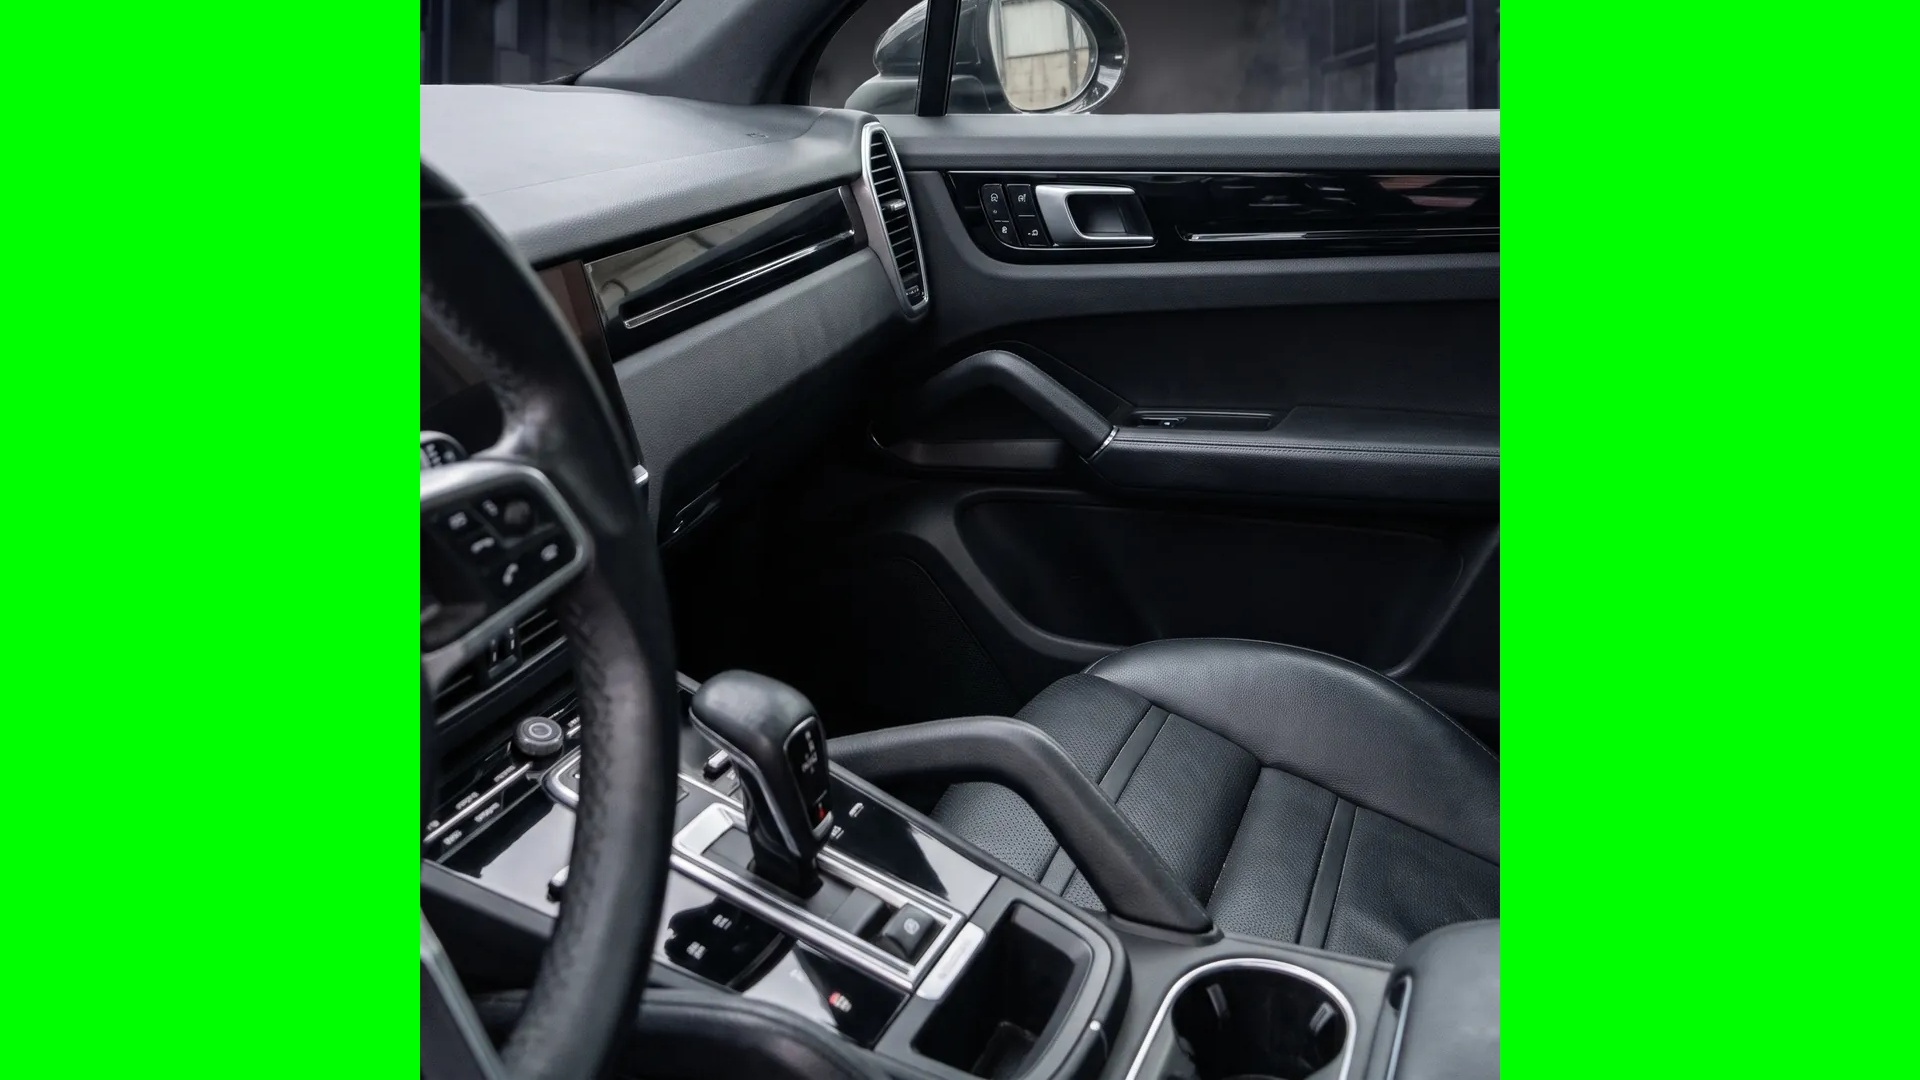
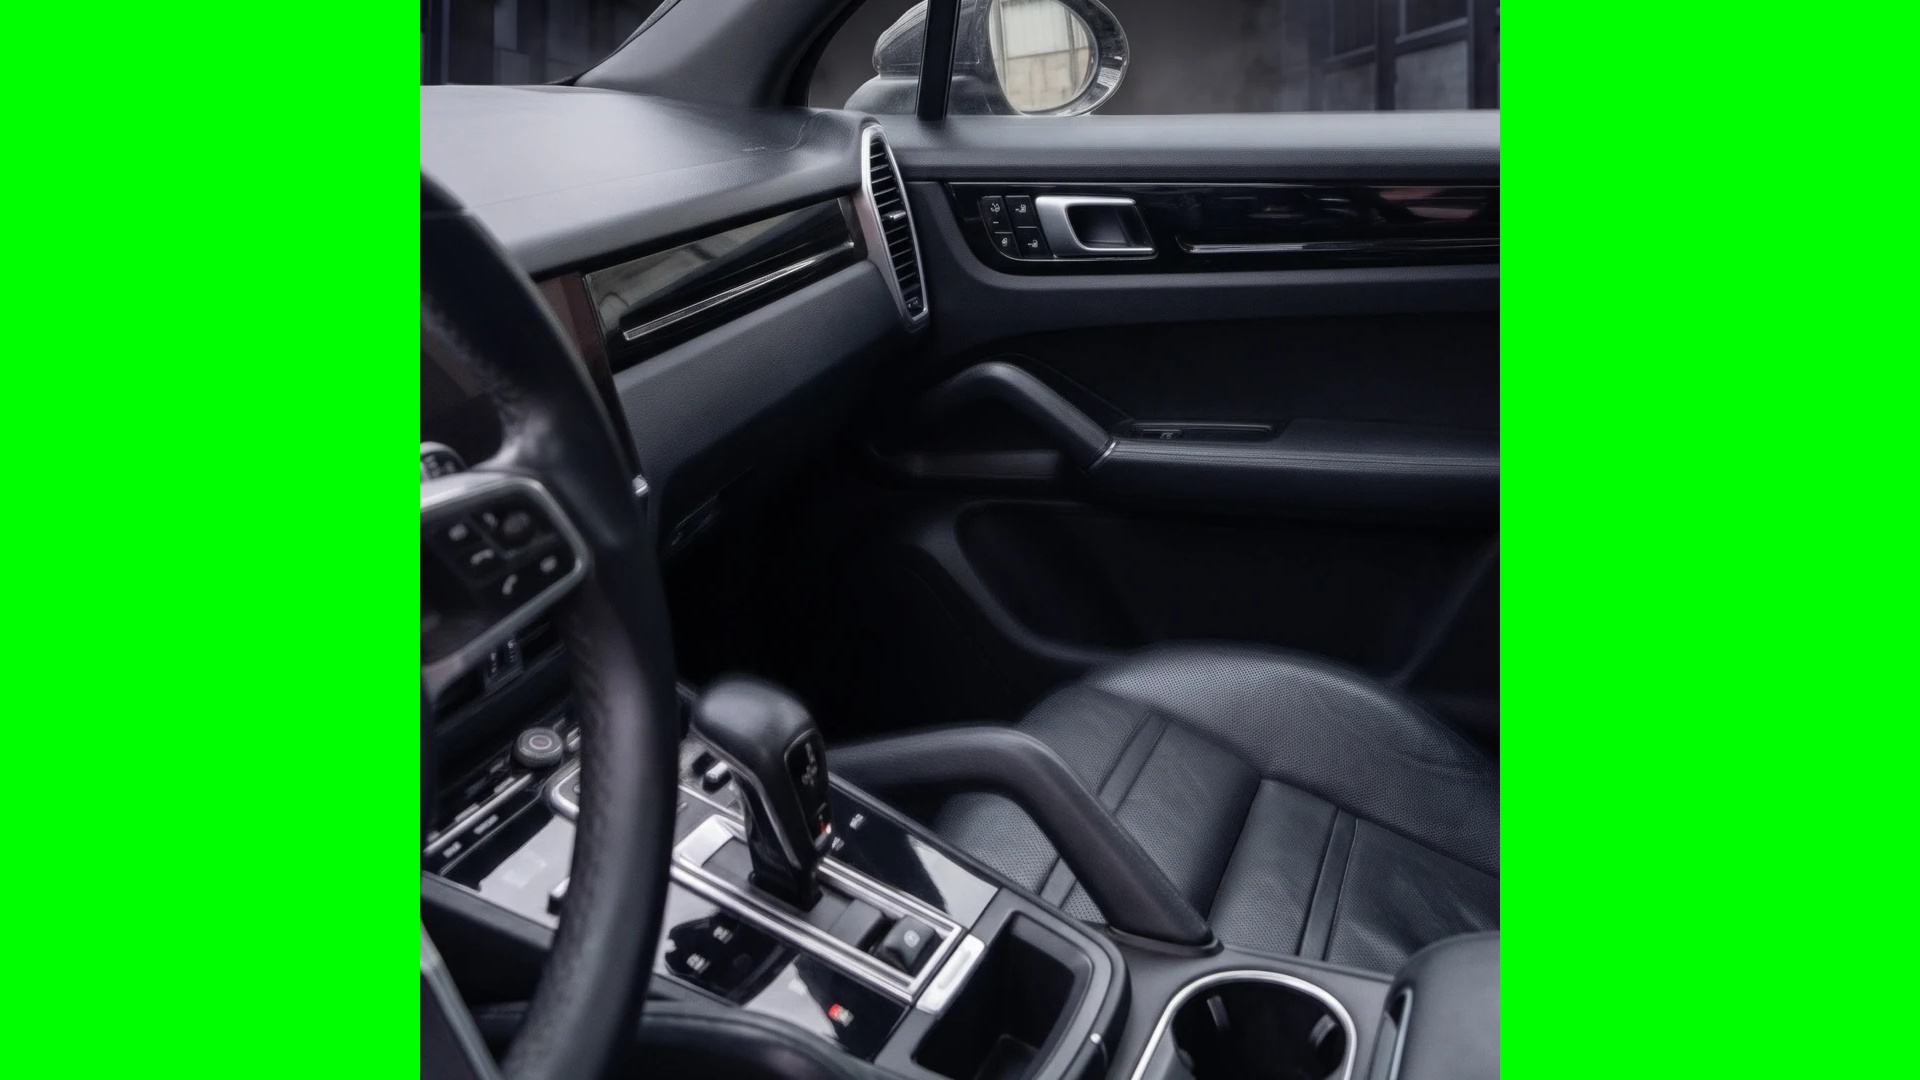
Fotos de la fase 2 (fondos provisionales en los encuadres nuevos)

diff --git a/index.html b/index.html
@@ -977,6 +977,13 @@ h1 { font-weight: 800; font-size: 22px; line-height: 1.1; letter-spacing: .01em;
 .book-nav .btn { width: 44px; height: 44px; min-height: 0; padding: 0; border-radius: 50%; font-size: 22px; }
 .book-nav .btn:disabled { opacity: .3; cursor: default; }
 @media (prefers-reduced-motion: reduce) { .book, .book:not(.open) { transform: none; transition: none; } }
+
+/* Recorrido de la limpieza (exterior → asientos → puertas → suelo → techo): pasos tocables */
+#phone .subs.tour { flex-wrap: nowrap; overflow-x: auto; scrollbar-width: none; gap: 4px; }
+#phone .subs.tour::-webkit-scrollbar { display: none; }
+#phone .subs.tour button { flex: none; height: 30px; padding: 0 11px; font-size: 9.5px; letter-spacing: .1em; }
+#phone .subs.tour button.done span::before { content: "✓ "; color: #ff4d5e; }
+#phone .subs.tour button[aria-pressed="true"].done span::before { color: #fff; }
 /* En un móvil la web ocupa SIEMPRE todo el ancho. Antes el ancho se limitaba a la mitad del alto, y con la barra
    del navegador (o en móviles más anchos) quedaban franjas negras a los lados. */
 @media (max-width: 600px), (pointer: coarse) and (orientation: portrait) { .phone { width: 100%; } }
@@ -1579,7 +1586,7 @@ if (innerWidth < 700 && innerHeight > innerWidth) location.replace('https://topd
 <script>
 (() => {
   // IMGV: súbelo cada vez que cambien fotos con el mismo nombre, para que el navegador no enseñe las viejas de su caché
-  const IMGV = 2;
+  const IMGV = 3;
   const img = n => `img/${n}.webp?v=${IMGV}`;
   const W = 'https://wa.me/34643182964?text=';
   const SUCIO = '01-intro_porsche_sucio', LIMPIO = '00-base_porsche_limpio';
@@ -1616,6 +1623,9 @@ if (innerWidth < 700 && innerHeight > innerWidth) location.replace('https://topd
     ]},
     extras: { label: 'Extras', groups: ['Interior', 'Exterior', 'Si hace falta'], serv: true, clip: 'extras', opts: [] },
   };
+  // Premium e integral: después del exterior, la animación sigue por el interior (cada paso, su antes y su después)
+  const INT = n => ({ n: n[0].toUpperCase() + n.slice(1), a: `06-limpieza_int_${n}_antes`, b: `06-limpieza_int_${n}_despues`, frame: 'int-' + n });
+  CATS.limpieza.opts.forEach((x, k) => { if (k) x.tour = [{ n: 'Exterior', a: x.a, b: x.b, frame: x.frame }, ...(k === 1 ? ['asientos', 'puertas'] : ['asientos', 'puertas', 'suelo', 'techo']).map(INT)]; });
   CATS.limpieza.page = 'detallado'; CATS.pulido.page = 'pulido'; CATS.ceramico.page = 'ceramico'; CATS.extras.page = 'precios'; CATS.tintado.page = 'precios';
   const ZONA = { interior: 'Interior', cristales: 'Cristales', motor: 'Motor', ruedas: 'Ruedas', carroceria: 'Carrocería' };
   // fam: opciones que van juntas en un solo botón (Cuero: nutrición y coating; Hidratación: neumáticos, pasos de rueda y gomas)
@@ -2003,9 +2013,15 @@ if (innerWidth < 700 && innerHeight > innerWidth) location.replace('https://topd
   const ring = (y, sz = 22) => { const r = sz / 2 - 2, c = 2 * Math.PI * r; return `<svg class="ring" viewBox="0 0 ${sz} ${sz}" aria-hidden="true"><circle cx="${sz / 2}" cy="${sz / 2}" r="${r}"/><circle class="v" cx="${sz / 2}" cy="${sz / 2}" r="${r}" stroke-dasharray="${(c * y / 7).toFixed(1)} ${c.toFixed(1)}"/></svg>`; };
   function paintSubs(C, O) {
     const box = $('subs');
+    if (O && O.tour) {
+      box.hidden = false; box.classList.add('tour');
+      box.innerHTML = O.tour.map((T, k) => `<button type="button" data-st="${k}" aria-pressed="${k === stepI}"${k < stepI || abReady ? ' class="done"' : ''}><span>${esc(T.n)}</span></button>`).join('');
+    } else {
+    box.classList.remove('tour');
     const list = !O ? [] : C.row ? C.opts.map((x, i) => [x, i]) : O.fam ? C.opts.map((x, i) => [x, i]).filter(([x]) => x.fam === O.fam) : [];
     box.hidden = !list.length;
     box.innerHTML = list.map(([x, i]) => `<button type="button" data-i="${i}" aria-pressed="${i === opt}">${x.years ? ring(x.years) : ''}<span>${esc(x.short)}</span></button>`).join('');
+    }
     // Reloj: los años de garantía del cerámico, con el anillo que se llena
     const ck = $('clock');
     ck.hidden = !(O && O.years);
@@ -2015,7 +2031,7 @@ if (innerWidth < 700 && innerHeight > innerWidth) location.replace('https://topd
       v.style.strokeDasharray = `${c * O.years / 7} ${c}`;
     }
   }
-  $('subs').addEventListener('click', e => { const b = e.target.closest('[data-i]'); if (b && cat) play(cat, +b.dataset.i); });
+  $('subs').addEventListener('click', e => { const st = e.target.closest('[data-st]'); if (st) return goStep(+st.dataset.st); const b = e.target.closest('[data-i]'); if (b && cat) play(cat, +b.dataset.i); });
   // Título: texto en blanco y las palabras clave en rojo
   const PREF = { limpieza: 'Limpieza', tintado: 'Tintado' };
   const PAGES = { nosotros: 'Sobre <span class="k">nosotros</span>', precios: 'Servicios y <span class="k">precios</span>', detallado: '<span class="k">Limpieza</span>',
@@ -2074,7 +2090,7 @@ if (innerWidth < 700 && innerHeight > innerWidth) location.replace('https://topd
     // (y si la animación de la opción no puede salir de lo que se ve, p. ej. de Inicio a 2 pasos, se pasa antes por su «antes»)
     const direct = !!(CATS[c].evo && prev && i !== prevI && prev.frame === O.frame) && !(O.clip && CLIPS[O.clip] && shownSrc !== CLIPS[O.clip].start && prev.clip !== O.clip)
       && !(O.fx && !O.fxAny && ![O.a, ...O.fx.map(f => f[1])].includes(shownSrc));
-    opt = i; state = direct ? 'b' : 'a'; abReady = false;
+    opt = i; state = direct ? 'b' : 'a'; abReady = false; stepI = 0;
     chrome(); paintInfo();
     q(exitSlider);
     const ck = clipOf(c);
@@ -2086,6 +2102,7 @@ if (innerWidth < 700 && innerHeight > innerWidth) location.replace('https://topd
       // De un nivel al siguiente: si lo que se ve es el punto de partida de su animación (de 1 paso a 2 pasos,
       // de 2 pasos al cerámico, de un tinte a otro), se anima; si no, barrido
       await q(() => animate(O, my, i > prevI ? 1 : -1)); if (my !== token) return;
+      if (O.tour) { await runTour(O, my); if (my !== token) return; }
       abReady = true; paintAB();
       return;
     }
@@ -2095,12 +2112,31 @@ if (innerWidth < 700 && innerHeight > innerWidth) location.replace('https://topd
     // El «después» llega con la herramienta trabajando (pulidora, espuma y agua, lámina, cepillo, vídeo del cerámico…)
     await q(() => animate(O, my, 1));
     if (my !== token) return;
-    abReady = true; paintAB();
+    if (O.tour) { await runTour(O, my); if (my !== token) return; }
+    abReady = true; paintAB(); if (O.tour) paintSubs(CATS[cat], O);
     if (O.slider) q(() => enterSlider(O, my));
+  }
+  // Paso del recorrido que se ve (0 = exterior); Antes / Después compara ese paso
+  let stepI = 0;
+  const pair = O => (O.tour && O.tour[stepI]) || O;
+  async function runTour(O, my) {
+    for (let k = 1; k < O.tour.length; k++) {
+      const T = O.tour[k]; stepI = k; state = 'a'; paintSubs(CATS[cat], O); paintAB();
+      await show(T.a, T.frame, 1, my); if (my !== token) return;
+      await wait(800 * tempo); if (my !== token) return;
+      state = 'b'; paintAB();
+      await show(T.b, T.frame, 1, my); if (my !== token) return;
+      await wait(500 * tempo); if (my !== token) return;
+    }
+  }
+  function goStep(k) {
+    const O = CATS[cat].opts[opt]; if (!O.tour || !abReady) return;
+    const my = ++token; stepI = k; state = 'b'; paintSubs(CATS[cat], O); paintAB();
+    const T = O.tour[k]; show(T.b, T.frame, 1, my);
   }
   function flip(s) {
     if (!abReady || s === state) return;
-    const my = ++token, O = CATS[cat].opts[opt];
+    const my = ++token, O = pair(CATS[cat].opts[opt]);
     state = s; paintAB();
     show(s === 'a' ? O.a : O.b, O.frame, s === 'a' ? -1 : 1, my);
   }
@@ -2943,7 +2979,7 @@ if (innerWidth < 700 && innerHeight > innerWidth) location.replace('https://topd
   const MIN = reduce ? 0 : 2600;
   // Si el navegador tarda en decodificar las fotos grandes, la carga sigue igualmente
   const ready = im => Promise.race([im.decode().catch(() => {}), wait(1500)]);
-  const all = [...new Set([SUCIO, LIMPIO, ...Object.values(CATS).flatMap(c => c.opts.flatMap(x => [x.a, x.b]))])];
+  const all = [...new Set([SUCIO, LIMPIO, ...Object.values(CATS).flatMap(c => c.opts.flatMap(x => [x.a, x.b, ...(x.tour || []).flatMap(t => [t.a, t.b])]))])];
   let loaded = 0;
   // Los fotogramas de los clips se bajan después de las fotos, sin retrasar la bienvenida:
   // primero uno de cada 8 de cada clip, luego los intermedios, de 6 en 6

diff --git a/_tools/pc.py b/_tools/pc.py
@@ -21,6 +21,8 @@ G = {  # grupo: (fotos, foto del centro del lienzo, y0 o None = automático)
   'perfil': (['02-tintado_lunas_sin', '02-tintado_lunas_50', '02-tintado_lunas_30', '02-tintado_lunas_5'], '02-tintado_lunas_sin', 400, 1300),
   'macro': (['03-correccion_pintura_swirls', '03-correccion_pintura_1paso', '03-correccion_pintura_2pasos', '04-ceramica_perlado'], '03-correccion_pintura_2pasos', None),
 }
+for n in ('asientos', 'puertas', 'suelo', 'techo'):   # recorrido por el interior de la limpieza
+    G['int-' + n] = ([f'06-limpieza_int_{n}_antes', f'06-limpieza_int_{n}_despues'], f'06-limpieza_int_{n}_despues', None)
 for f in sorted(glob.glob(SRC + '05-extras_*_antes.webp')):
     a = os.path.basename(f)[:-5]; b = a[:-5] + 'despues'
     G[a.split('_')[2]] = ([a, b], b, None)
